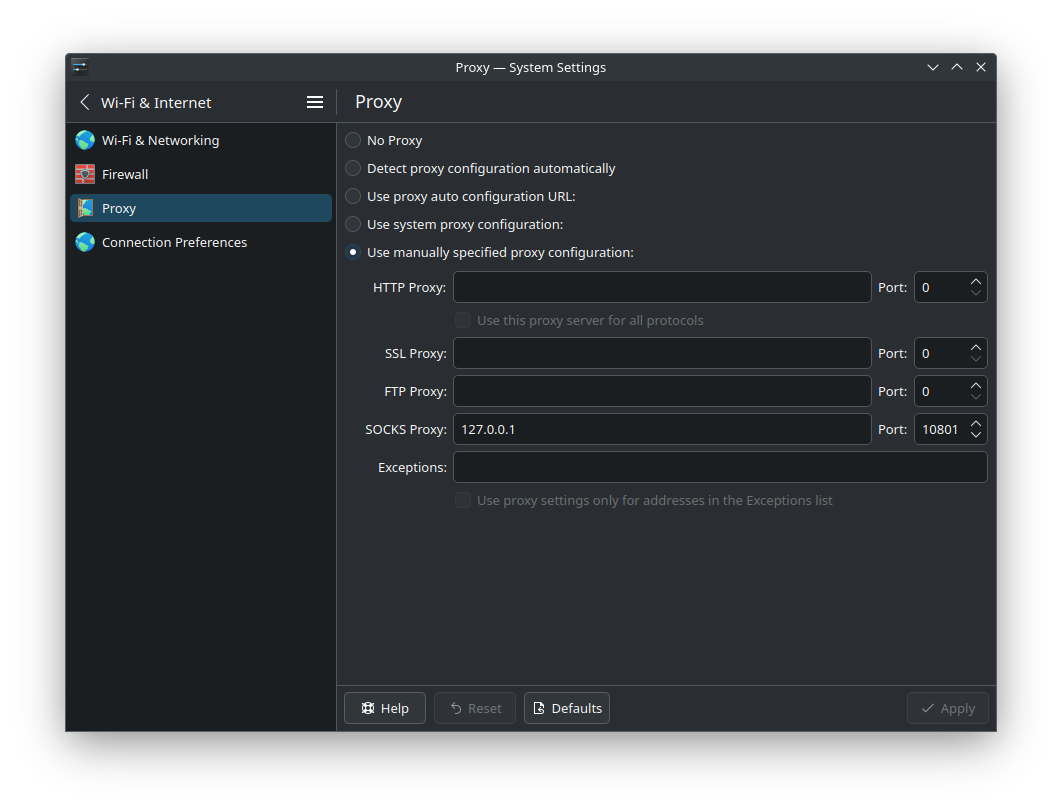
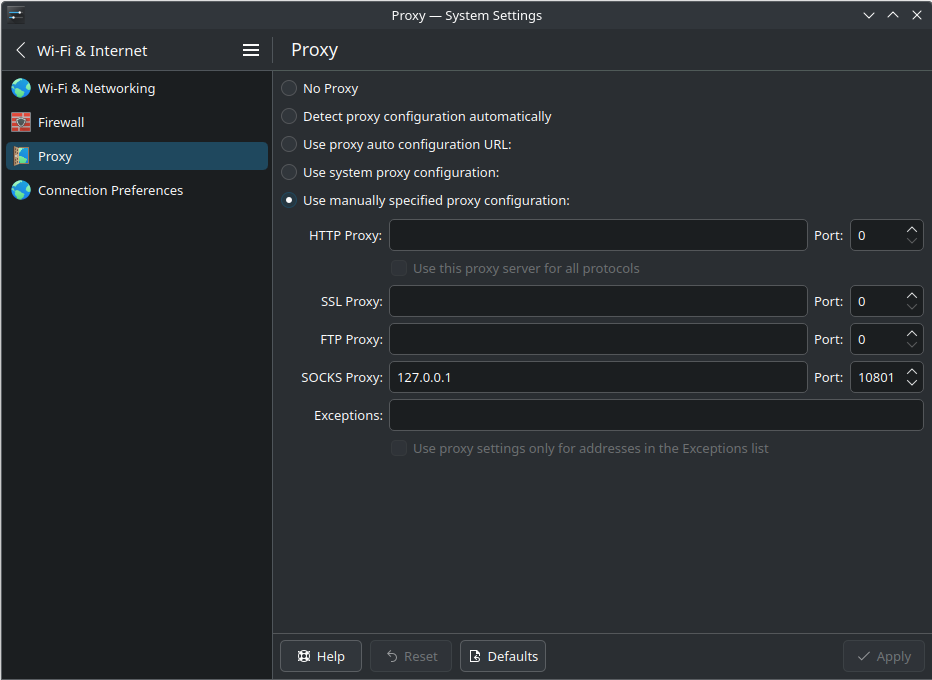
Align images to left in markdown files.

diff --git a/Linux/redstaros.md b/Linux/redstaros.md
@@ -6,7 +6,7 @@ Taken from <https://richardg867.wordpress.com/2015/01/01/notes-on-red-star-os-3-
 
 The latest version of North Korea’s custom Linux distribution, Red Star OS – that one with the Mac OS X style interface – has [leaked onto the internet](http://pastebin.com/cHAzyTE7). While [the individual who talked about technology in North Korea at the 31C3 conference](http://media.ccc.de/browse/congress/2014/31c3_-_6253_-_en_-_saal_2_-_201412292115_-_computer_science_in_the_dprk_-_will_scott.html) claimed he didn’t see anybody using Red Star seriously, it’s still an interesting distribution to check out.
 
-![image!](images/image.png)
+<img align="left" src="images/image.png">
 
 ### Installation
 
@@ -18,7 +18,7 @@ The Korean installer is quite easy to go through blind. All you need to watch ou
 
 Some minor parts of the UI remain untranslated as they are static images. The installed system will still be in Korean, but we’ll fix that later.
 
-![image1!](images/image1.png)
+<img align="left" src="images/image1.png">
 
 ### Obtaining root access
 
@@ -29,15 +29,15 @@ Just like OS X, the root user is disabled by default and the system provides an 
 3. Click the Utilities folder with a hammer and wrench icon (on a full install, there will be another folder with a hammer icon, which is not the one you should click)
 4. Click the Terminal icon
 
-![image2!](images/image2.png)
+<img align="left" src="images/image2.png">
 
 Run the rootsetting command to open the root utility. Click the padlock to unlock the settings, enter your password and click the blue button.
 
-![image3!](images/image3.png)
+<img align="left" src="images/image3.png">
 
 Check the checkbox. You’ll be prompted to enter and confirm a password for the root user. Type the password into both boxes and click the blue button. The root user is now enabled; the utility can be closed.
 
-![image4!](images/image4.png)
+<img align="left" src="images/image4.png">
 
 My old rootsh RPM – which takes advantage of the unprivileged package installer – is still available [here](https://mega.nz/#!jgBT0RxZ!LQDEBBrbGxE6fag4d_A2C2cWj2PSNR_ZvnSW_UjRD5E) for reference.
 
@@ -51,7 +51,7 @@ sed -i 's/ko_KP/en_US/g' /etc/sysconfig/i18n /usr/share/config/kdeglobals
 
 Reboot the system (through the menus or by running the reboot command) to apply the changes. These steps are reported to work on Red Star 2.5 Server as well, with the difference that su is not required since you’re already logged in as root.
 
-![image5!](images/image5.png)
+<img align="left" src="images/image5.png">
 
 ### Internet connectivity
 
@@ -71,11 +71,11 @@ The included “Naenara Browser” is Firefox 3.5 with a custom skin and a Korea
 5. Click the button on the yellow bar to restart the browser
 6. The browser will ask for confirmation if more than one tab is open, click the blue button if it does
 
-![image6!](images/image6.png)
+<img align="left" src="images/image6.png">
 
 Despite the browser being configured to browse on the North Korean intranet, it works on the internet (about as well as Firefox 3.5 does these days) once you apply the iptables fix above.
 
-![image7!](images/image7.png)
+<img align="left" src="images/image7.png">
 
 ### Dubious components
 
@@ -93,7 +93,9 @@ rm /usr/share/autostart/intcheck_kde.desktop
 * The 32C3 talk also mentions a similar service which automatically reboots the system if files related to the aforementioned malicious components are modified.
 * The disc includes a Windows executable named `install.exe`, which displays a window with two buttons. The leftmost one displays an error message, presumably telling you to boot from the DVD, and the rightmost one closes the window. The windows consist of static images stored in the EXE’s Bitmap resources, and strangely there are a few more of them – it remains to be seen what are they for.
 
-![image8!](images/image8.png) ![image9!](images/image9.png)
+<img align="left" src="images/image8.png">
+
+<img align="left" src="images/image9.png">
 
 * Press Esc on the boot splash for verbose boot.
 * English or South Korean locales were replaced to accommodate the new North Korean locales throughout the system.
@@ -108,19 +110,19 @@ Five years ago, I wrote [a post on Red Star OS 3.0](https://richardg867.wordpres
 
 It turns out there is more to the `install.exe` Windows executable located in the installation disc. According to a comment in the previous post – as well as Google Translate – the error message displayed by that executable tells you to copy the installation files to your hard drive. Once I copied the DVD’s file structure to the Documents folder and ran `install.exe` from there, the error message changed to a confirmation request, which apparently asks if I want to reboot to continue.
 
-![image20!](images/image20.png)
+<img align="left" src="images/image20.png">
 
 Clicking the blue button reboots the system to reveal a new “RedStar Setup” entry on the Windows boot menu, set to start automatically after 1 second. That boot entry is automatically removed by the installer once it is up and running.
 
-![image21!](images/image21.png)
+<img align="left" src="images/image21.png">
 
 The installer pulls this off by copying a few boot files to the root of the Windows partition, then registering `\RS\rsloader.mbr` as a real-mode boot option – often used to chainload into other bootloaders – on Windows’ BCD (Boot Configuration Data); `\RS\BCD` is presumably a backup of the previous BCD. This is not an unseen tactic, as a few Linux distributions have also shipped Windows-based installation kickstarters in the past, which also leverage the Windows boot manager to start the Linux-based installer without asking the user to fiddle around with BIOS settings and boot menus.
 
-![image22!](images/image22.png)
+<img align="left" src="images/image22.png">
 
 Starting the installer in English is still possible by hammering the E key as soon as the Windows boot menu screen disappears. This will force the Grub bootloader to enter its command line editor. Add `lang=en` to the end, press Enter to save and B to boot.
 
-![image23!](images/image23.png)
+<img align="left" src="images/image23.png">
 
 Another method is breaking out of the automatic boot (hammer any arrow key on the boot menu), booting into Windows and editing `\m_rs.lst` with a text editor which can handle UNIX line endings, such as WordPad or Windows 10’s Notepad. Run the editor as administrator, open that file, replace `lang=ko` with `lang=en` on the kernel parameters, and save. It’s also worth noting the additional parameters used by the installer to find itself:
 
@@ -128,15 +130,15 @@ Another method is breaking out of the automatic boot (hammer any arrow key on th
 * `BOOTUUID=` points to the Windows partition by its volume serial number;
 * `BOOTMGRUUID=` points to the partition containing the Windows boot manager, which is usually the hidden System Reserved partition if your system has one.
 
-![image24!](images/image24.png)
+<img align="left" src="images/image24.png">
 
 The installer’s disk utility refuses to alter the Windows partition containing the installation files in any way. You must leave some unallocated space or a partition for Red Star prior to booting the installer, or install to a different drive.
 
-![image25!](images/image25.png)
+<img align="left" src="images/image25.png">
 
 As with other Linux distributions, the installer adds a second boot menu entry which chainloads into the Windows boot manager.
 
-![image26!](images/image26.png)
+<img align="left" src="images/image26.png">
 
 ### Sogwang Office
 
@@ -149,7 +151,7 @@ rm RedStar/resource/*ko.res share/registry/Langpack-ko.xcd
 
 It might be possible to change the language by editing configuration files, however, I couldn’t figure out where the language preference is stored within OpenOffice’s rather complex configuration system. Leave a comment if you happen to know something about OpenOffice’s internals.
 
-![image27!](images/image27.png)
+<img align="left" src="images/image27.png">
 
 ### Crosswin
 
@@ -157,15 +159,15 @@ The Crosswin compatibility layer is a wrapper around Wine 1.2.2, consisting of a
 
 Once installed, Crosswin can be reached through the Applications > AppLink > [Korean text] 3.0 menu. The “Install” application provides a few presets for installing common software – apparently just Photoshop, which the North Koreans would have totally legitimate copies of – as well as an Add/Remove Programs interface, a shortcut to `winecfg` and a font installer.
 
-![image28!](images/image28.png)
+<img align="left" src="images/image28.png">
 
 I’ve attempted to install Photoshop CS2 using the preset, but it didn’t work. After clicking Install, the application asks for some executable, which I assume to be Setup.exe on the Adobe CS2 disc. Selecting it starts the installer, which displays a splash screen for a few moments, closes itself, then the application claims Photoshop was successfully installed, which it clearly wasn’t.
 
-![image29!](images/image29.png)
+<img align="left" src="images/image29.png">
 
 Crosswin can also be invoked by opening .exe files from the file manager. The screenshot below shows a few old Windows XP applications which I’ve opened directly from another drive. Paint doesn’t let you type in text, the Calculator is braindead, and 3D Pinball (minimized) is unplayable due to the plunger and flippers not actuating. The only 3rd-party application on that drive was the PC version of Sonic & Knuckles, which runs fine but with no music due to the lack of a MIDI synthesizer.
 
-![image210!](images/image210.png)
+<img align="left" src="images/image210.png">
 
 ### APM
 
@@ -180,11 +182,11 @@ service sat restart
 
 Refresh the page to apply. Log in as root with the password you set when enabling root access.
 
-![image211!](images/image211.png)
+<img align="left" src="images/image211.png">
 
 The Webmin install (located on `/usr/share/sat`) is pretty barebones, containing just the Apache Webserver, MySQL Database Server, PHP Configuration and Webmin Users modules. None of the modules Webmin provides for managing itself or the system as a whole are present. For what it’s worth, the limited selection of modules reduces the attack surface – Webmin’s system management modules have faced many [CVEs](https://www.cvedetails.com/vulnerability-list/vendor_id-358/product_id-612/Webmin-Webmin.html) over the years – but iptables on Red Star is configured to block all incoming connections from outside the machine by default anyway.
 
-![image212!](images/image212.png)
+<img align="left" src="images/image212.png">
 
 ### /Applications
 

diff --git a/Windows/f1_key_action.md b/Windows/f1_key_action.md
@@ -9,20 +9,20 @@
 
 5. Click to `Change` where it says Owner:
 
-![image2!](images/image2.png)
+<img align="left" src="images/image2.png">
 
 6. Enter the object name to select: "your username"
 
-![image3!](images/image3.png)
+<img align="left" src="images/image3.png">
 
 7. Click OK and OK
 8. Click `Edit` button
 
-![image4!](images/image4.png)
+<img align="left" src="images/image4.png">
 
 9. Check the box "Full control"
 
-![image5!](images/image5.png)
+<img align="left" src="images/image5.png">
 
 10. Click OK, yes and OK
 11. Rename this file

diff --git a/Linux/byedpi_linux.md b/Linux/byedpi_linux.md
@@ -33,7 +33,7 @@ Enable SOCKS5 proxy:
 
 KDE NetworkManager:
 
-![image1](images/KDE.png)
+<img align="left" src="images/KDE.png">
 
 nmcli:
 
